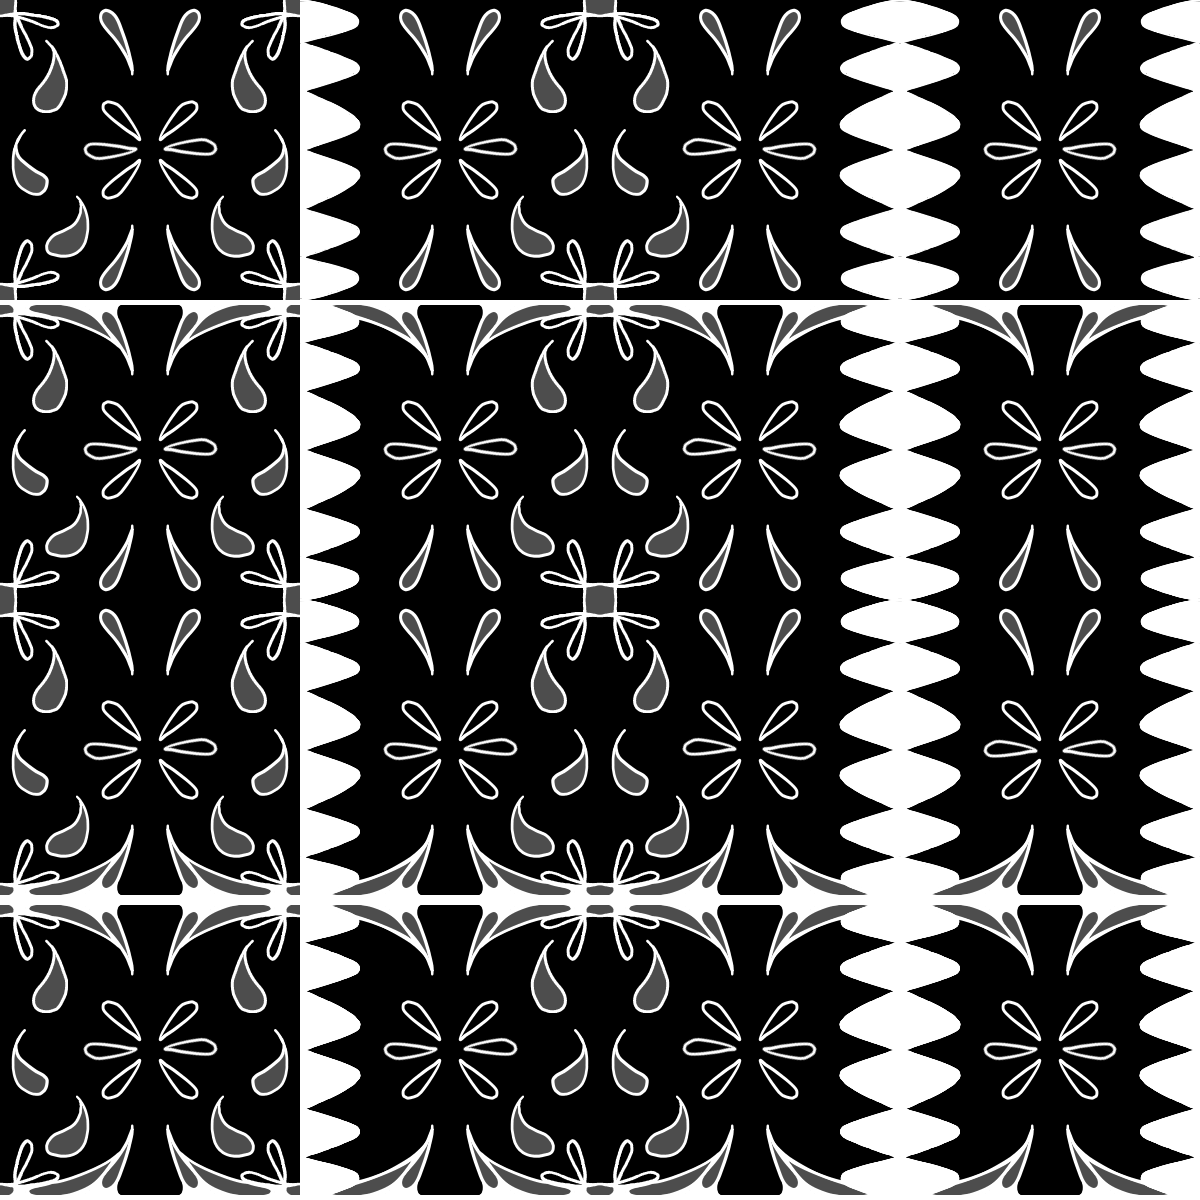
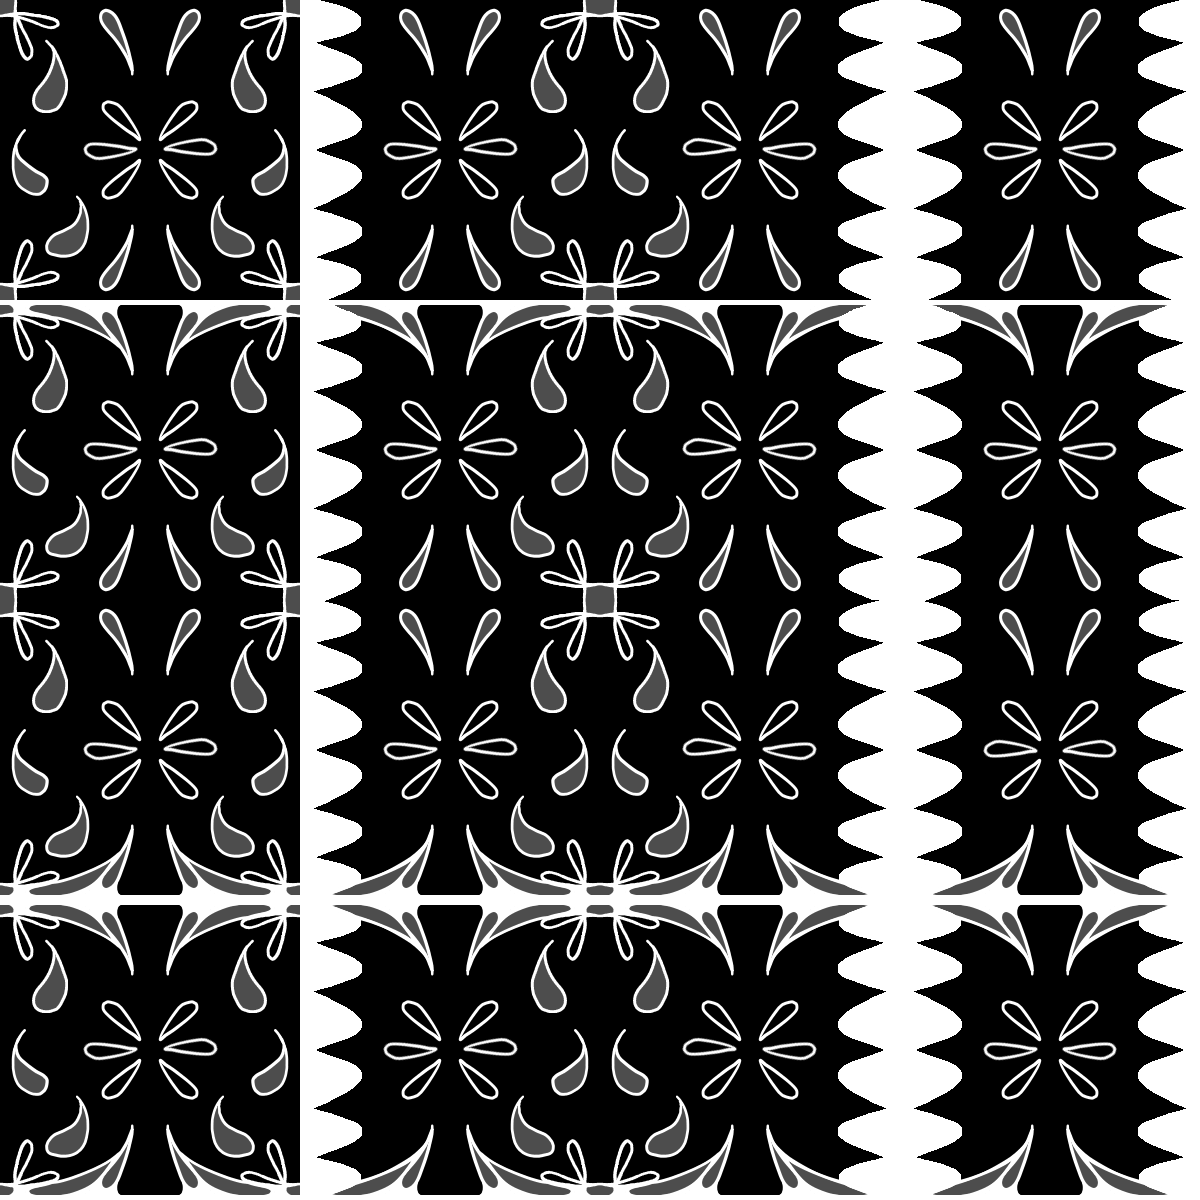
fixed gaps in tile generation

diff --git a/SceneLevel.cpp b/SceneLevel.cpp
@@ -26,7 +26,7 @@ SceneLevel::SceneLevel(){
     for (int i = 0; i < 3; i++)
         myUpcomingTiles[i] = TilePatterns::GetPattern(TilePatterns::PATTERNS::LOW_FLOOR_REPEAT);
 
-    myTileAdvanceCounter = 0.f;
+    myTileAdvanceCounter = 0;
     mySpeed = 0.5f;
     myDuration = 0.f;
 
@@ -156,12 +156,13 @@ bool SceneLevel::Update(float deltaTime){
             UpdateTutorial(deltaTime);
         
         // generate more map and allocate next tile
-        myTileAdvanceCounter -= std::ceilf(deltaTime * mySpeed * myTileSize);
+        float distance = std::ceilf(deltaTime * mySpeed * myTileSize);
+        myTileAdvanceCounter -= distance;
         if (myTileAdvanceCounter < 0){
-            UpdateUpcomingTiles();
-            AdvanceTiles();
             myTileAdvanceCounter += myTileSize;
-        } 
+            UpdateUpcomingTiles();
+            AdvanceTiles(distance - (myTileSize - myTileAdvanceCounter));
+        }
 
         myTilePooler->Update(deltaTime, mySpeed);
         myPlayer->Update(deltaTime, mySpeed);
@@ -246,7 +247,7 @@ void SceneLevel::UpdateUpcomingTiles(){
     }
 }
 
-void SceneLevel::AdvanceTiles(){
+void SceneLevel::AdvanceTiles(int offset){
     for (int i = 0; i < 8; i++){
         // is there a tile here?
         int FlagToCheck = (1 << i);
@@ -266,9 +267,10 @@ void SceneLevel::AdvanceTiles(){
         if (i == 7 || ((myUpcomingTiles[1] & LowerFlagToCheck) == 0)) // down
             index += 8;
 
-        // put new tile at far right of the screen
         SDL_Point spritePosition = { 300 * (index % 4), 300 * ((index - (index % 4)) / 4)};
-        myTilePooler->SetFreeTile({myTileMaxX*myTileSize, i*myTileSize},spritePosition);
+        // put new tile at far right of the screen
+        int tileX = (myTileMaxX * myTileSize) + offset;
+        myTilePooler->SetFreeTile({tileX, i*myTileSize},spritePosition);
     }
 }
 

diff --git a/SceneLevel.h b/SceneLevel.h
@@ -48,8 +48,8 @@ private:
     TilePooler* myTilePooler;
     std::array<unsigned char,3> myUpcomingTiles;
     std::vector<unsigned char> myUpcomingPattern;
-    float myTileAdvanceCounter;
-    void AdvanceTiles();
+    int myTileAdvanceCounter;
+    void AdvanceTiles(int offset);
     void UpdateUpcomingTiles();
     
     float mySpeed;
